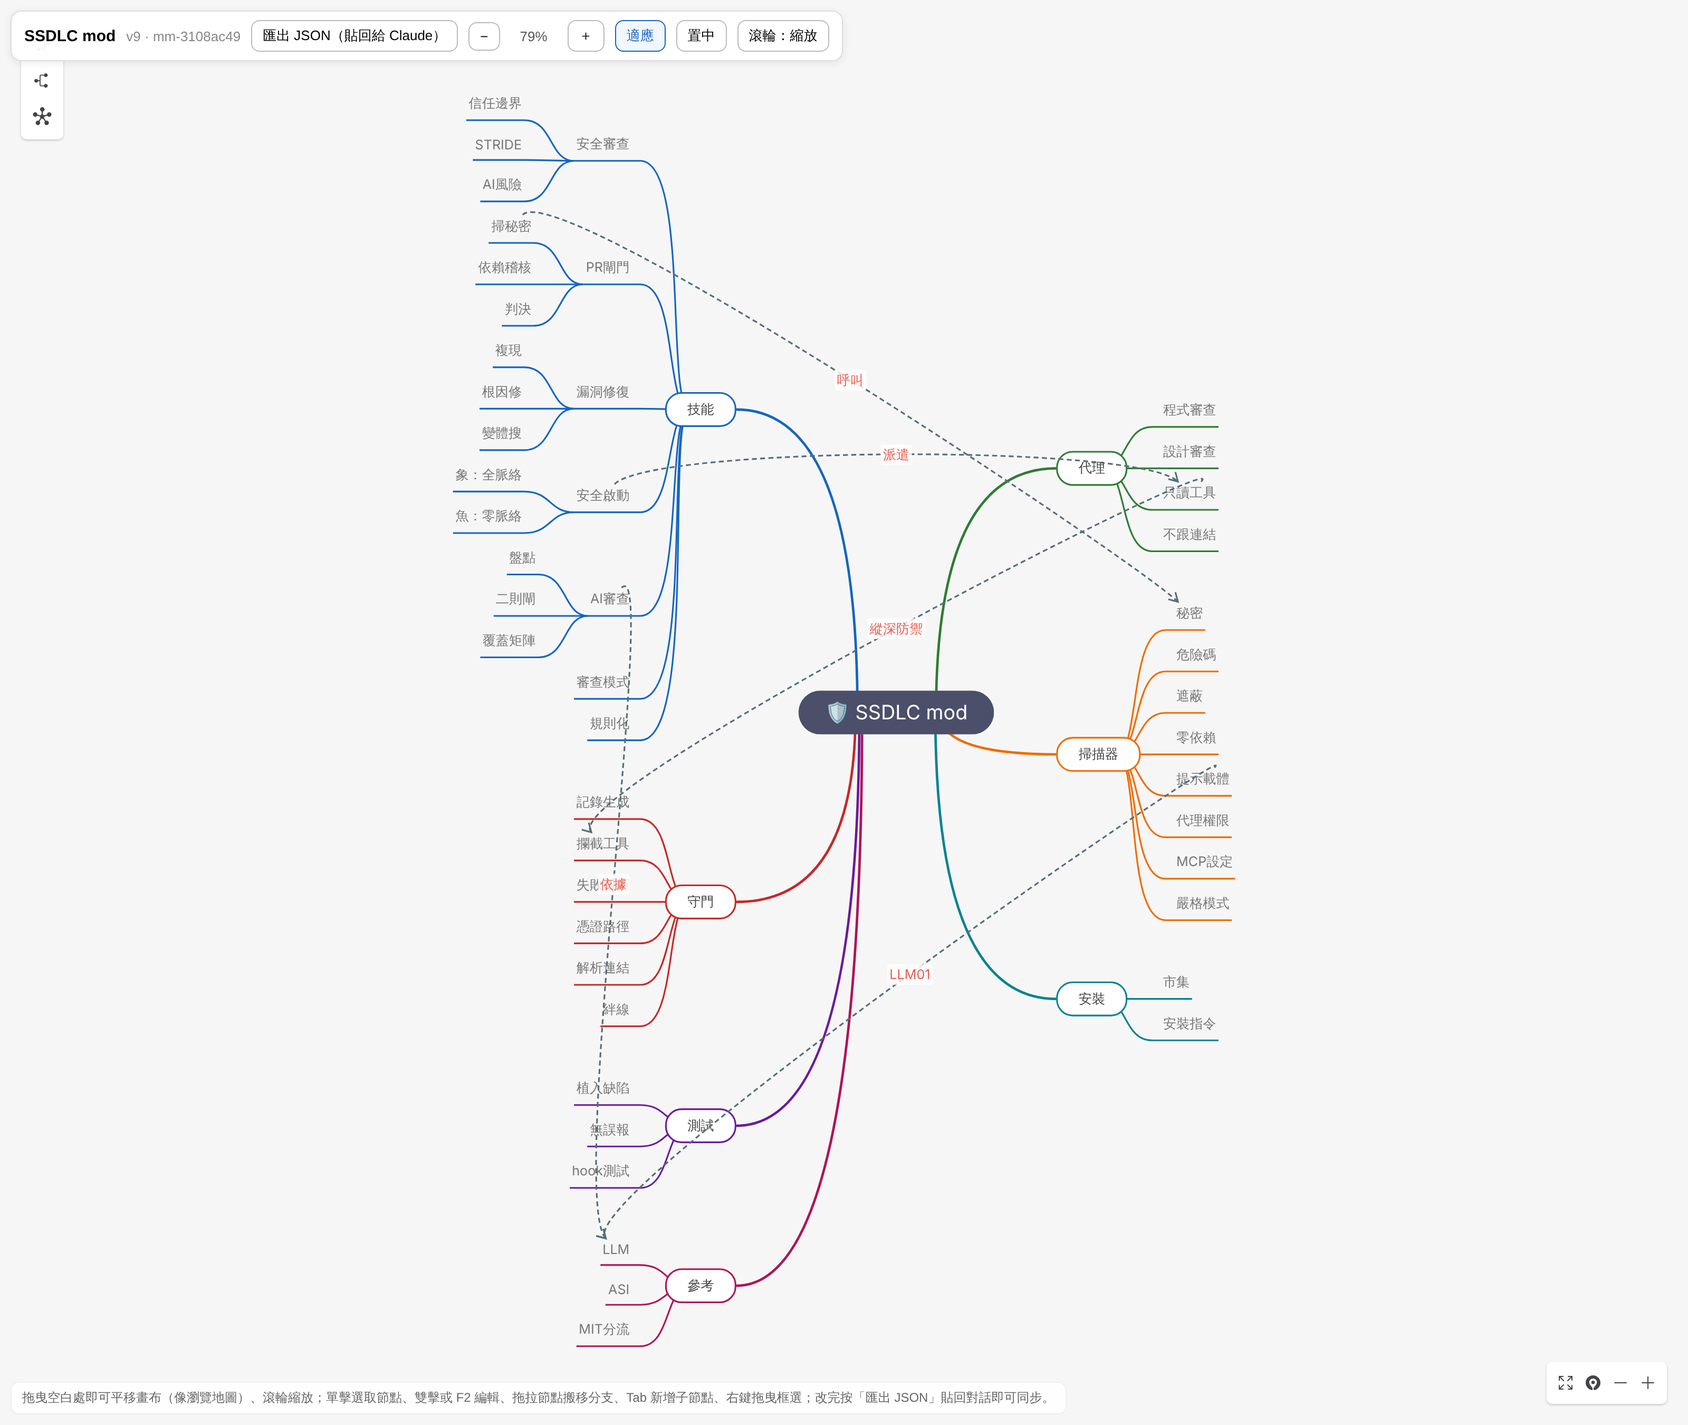
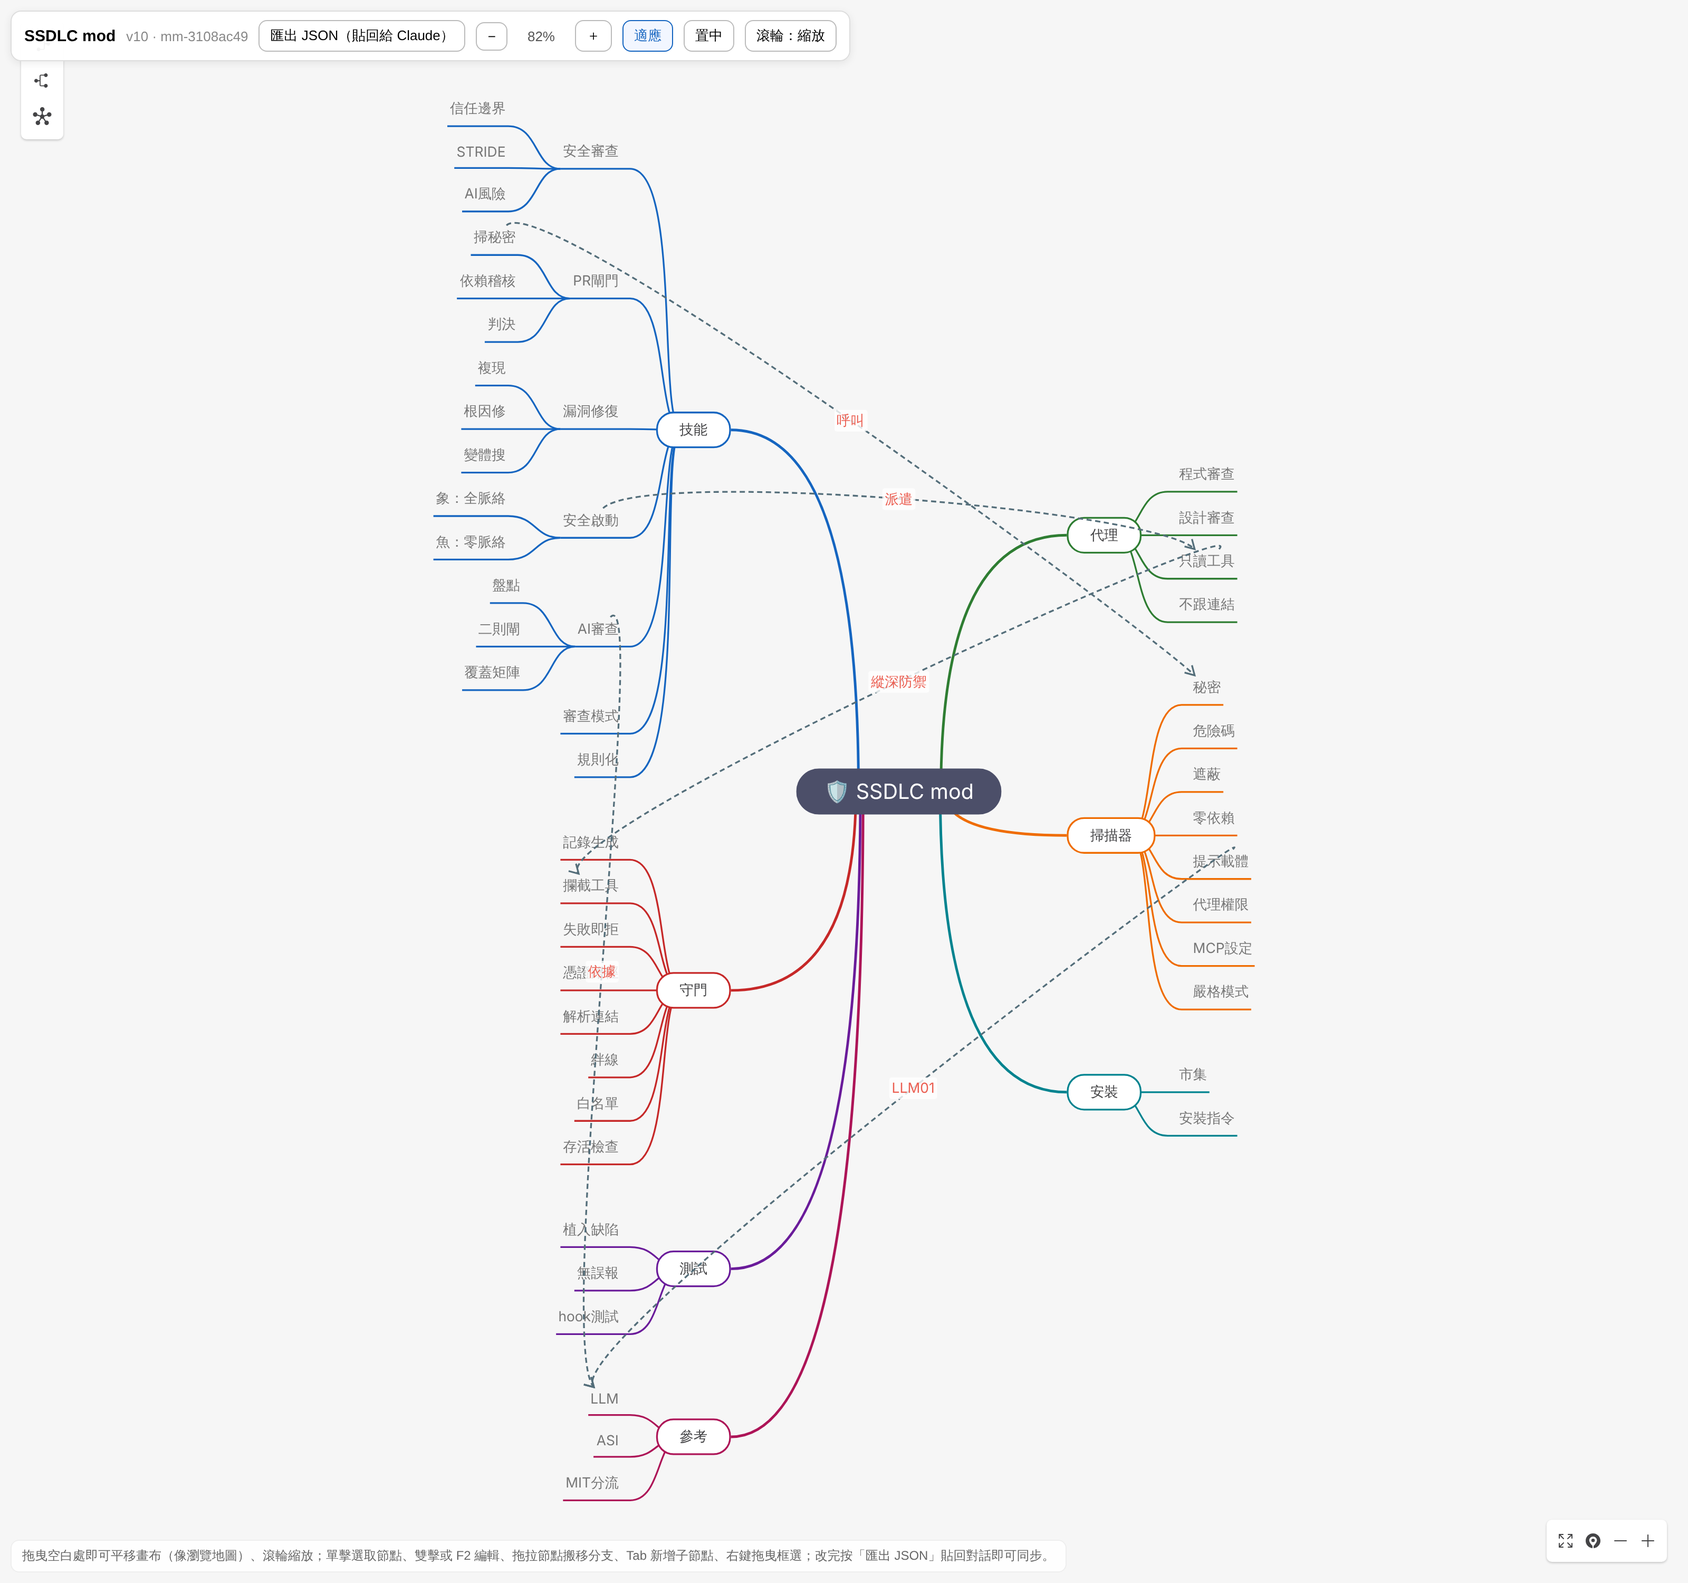
docs(readme): demo image and mind map for v0.5.0
The README demo was still v0.1 (23 tests, no AI rules, no guard). New image:
(1) scanner on general and AI/agent fixtures, JSON shown as a table with OWASP
2026 refs and the decoded hidden instruction; (2) live Claude app verification
of review mode, the reviewer allow-list and guard_log liveness; (3) 53 unit +
28 hook tests. Mind map gains the allow-list and liveness nodes (99/100).

Claude-Session: https://claude.ai/code/session_01R1ma2KKoemvTgjSD3ke2JF

diff --git a/docs/ssdlc-mindmap.html b/docs/ssdlc-mindmap.html
@@ -31,7 +31,7 @@
 </head>
 <body>
 <div id="topbar">
-  <b>SSDLC mod</b><span class="ver">v9 · mm-3108ac49</span>
+  <b>SSDLC mod</b><span class="ver">v10 · mm-3108ac49</span>
   <button onclick="exportFlat()">匯出 JSON（貼回給 Claude）</button>
   <button onclick="zoomStep(-1)" title="縮小">−</button><span id="zoompct" style="min-width:44px;text-align:center;color:#555;">100%</span><button onclick="zoomStep(1)" title="放大">＋</button>
   <button onclick="mind.scaleFit()" title="整張圖縮放至可視範圍">適應</button>
@@ -61,9 +61,9 @@ var MindElixir=(function(I){"use strict";const ee={name:"Latte",type:"light",pal
 
 </script>
 <script>
-const DATA = {"nodeData": {"id": "root", "topic": "🛡 SSDLC mod", "root": true, "expanded": true, "style": {"fontSize": "24px"}, "children": [{"id": "s", "topic": "技能", "expanded": true, "branchColor": "#1565C0", "children": [{"id": "s1", "topic": "安全審查", "expanded": true, "note": "/ssdlc:security-review — 10 段檢查表", "children": [{"id": "s1a", "topic": "信任邊界", "expanded": true}, {"id": "s1b", "topic": "STRIDE", "expanded": true}, {"id": "s1c", "topic": "AI風險", "expanded": true}]}, {"id": "s2", "topic": "PR閘門", "expanded": true, "note": "/ssdlc:security-gate", "children": [{"id": "s2a", "topic": "掃秘密", "expanded": true}, {"id": "s2b", "topic": "依賴稽核", "expanded": true}, {"id": "s2c", "topic": "判決", "expanded": true, "note": "PASS / WARN / BLOCK"}]}, {"id": "s3", "topic": "漏洞修復", "expanded": true, "note": "/ssdlc:vuln-fix", "children": [{"id": "s3a", "topic": "複現", "expanded": true}, {"id": "s3b", "topic": "根因修", "expanded": true}, {"id": "s3c", "topic": "變體搜", "expanded": true}]}, {"id": "s4", "topic": "安全啟動", "expanded": true, "note": "/ssdlc:safe-bootstrap — EGM 唯讀版", "children": [{"id": "s4a", "topic": "象：全脈絡", "expanded": true}, {"id": "s4b", "topic": "魚：零脈絡", "expanded": true}]}, {"id": "s5", "topic": "AI審查", "expanded": true, "note": "/ssdlc:ai-security-review — LLM01–10:2026、ASI01–10、MIT 因果格、覆蓋矩陣", "children": [{"id": "s5a", "topic": "盤點", "expanded": true}, {"id": "s5b", "topic": "二則閘", "expanded": true, "note": "Rule of Two：不可信輸入 × 機敏資料 × 改變狀態"}, {"id": "s5c", "topic": "覆蓋矩陣", "expanded": true}]}, {"id": "s6", "topic": "審查模式", "expanded": true, "note": "/ssdlc-review-mode：主 session 只允許精確命令形式、無網路、寫檔限報告、只派 ssdlc 審查員；只有人能關閉"}, {"id": "s7", "topic": "規則化", "expanded": true, "note": "/ssdlc:rule-from-finding：確認的發現 → 規則＋植入缺陷＋安全對照＋測試（飛輪）"}]}, {"id": "a", "topic": "代理", "expanded": true, "branchColor": "#2E7D32", "children": [{"id": "a1", "topic": "程式審查", "expanded": true, "note": "ssdlc:security-reviewer"}, {"id": "a2", "topic": "設計審查", "expanded": true, "note": "ssdlc:design-reviewer"}, {"id": "a3", "topic": "只讀工具", "expanded": true, "note": "Read, Grep, Glob"}, {"id": "a4", "topic": "不跟連結", "expanded": true, "note": "repo 外連結只列出不開啟"}]}, {"id": "h", "topic": "守門", "expanded": true, "branchColor": "#C62828", "children": [{"id": "h1", "topic": "記錄生成", "expanded": true, "note": "agent.spawn：記下 ssdlc:*reviewer 的 agentId"}, {"id": "h2", "topic": "攔截工具", "expanded": true, "note": "tool.call：非 Read/Grep/Glob 一律 deny"}, {"id": "h3", "topic": "失敗即拒", "expanded": true, "note": ".catch → fail closed"}, {"id": "h4", "topic": "憑證路徑", "expanded": true, "note": "~/.ssh、~/.aws、.env*、金鑰檔；含 glob（ASI03、LLM02:2026）"}, {"id": "h5", "topic": "解析連結", "expanded": true, "note": "$.fs.stat realPath，擋 repo 內指向憑證的 symlink"}, {"id": "h6", "topic": "絆線", "expanded": true, "note": "讀憑證或用禁用工具＝tripwire → 主 session 下一個工具結果附警報 → 判 BLOCK；guard_log 可查"}]}, {"id": "g", "topic": "掃描器", "expanded": true, "branchColor": "#EF6C00", "children": [{"id": "g1", "topic": "秘密", "expanded": true, "note": "AWS/GitHub/Anthropic/Slack/私鑰/硬編碼"}, {"id": "g2", "topic": "危險碼", "expanded": true, "note": "shell/eval/pickle/SQL/TLS/MD5"}, {"id": "g3", "topic": "遮蔽", "expanded": true, "note": "只顯示前 4 字元"}, {"id": "g4", "topic": "零依賴", "expanded": true, "note": "標準庫、不連網"}, {"id": "g5", "topic": "提示載體", "expanded": true, "note": "Unicode tag 隱寫（解碼）、零寬／bidi（LLM01:2026）"}, {"id": "g6", "topic": "代理權限", "expanded": true, "note": "bypassPermissions、autoApprove、萬用清單、REPL 工具（LLM03:2026、ASI02/05）"}, {"id": "g7", "topic": "MCP設定", "expanded": true, "note": "未鎖版本、內嵌密鑰、明文傳輸（ASI04/07）"}, {"id": "g8", "topic": "嚴格模式", "expanded": true, "note": "--strict 忽略 allow 標記；suppressed/skipped 皆列報"}]}, {"id": "t", "topic": "測試", "expanded": true, "branchColor": "#6A1B9A", "children": [{"id": "t1", "topic": "植入缺陷", "expanded": true, "note": "40 個單元測試：每條規則皆有植入缺陷與安全對照"}, {"id": "t2", "topic": "無誤報", "expanded": true}, {"id": "t3", "topic": "hook測試", "expanded": true, "note": "9 個 guard hook 測試"}]}, {"id": "i", "topic": "安裝", "expanded": true, "branchColor": "#00838F", "children": [{"id": "i1", "topic": "市集", "expanded": true, "note": "joescoffee/ssdlc-mod"}, {"id": "i2", "topic": "安裝指令", "expanded": true, "note": "/plugin install ssdlc --marketplace joescoffee/ssdlc-mod"}]}, {"id": "r", "topic": "參考", "expanded": true, "branchColor": "#AD1457", "children": [{"id": "r1", "topic": "LLM", "expanded": true, "note": "OWASP Top 10 for LLM Applications 2026（CC BY-SA 4.0）"}, {"id": "r2", "topic": "ASI", "expanded": true, "note": "OWASP Top 10 for Agentic Applications 2026（CC BY-SA 4.0）"}, {"id": "r3", "topic": "MIT分流", "expanded": true, "note": "AI Risk Repository V4：24 子域 A/B/C、因果情境格（CC BY 4.0）"}]}]}, "arrows": [{"id": "arrow0", "label": "派遣", "from": "s4", "to": "a3", "delta1": {"x": 60, "y": -60}, "delta2": {"x": -60, "y": -60}, "style": {"stroke": "#546E7A", "strokeDasharray": "6 4", "strokeWidth": 2}}, {"id": "arrow1", "label": "縱深防禦", "from": "a3", "to": "h2", "delta1": {"x": 60, "y": -60}, "delta2": {"x": -60, "y": -60}, "style": {"stroke": "#546E7A", "strokeDasharray": "6 4", "strokeWidth": 2}}, {"id": "arrow2", "label": "呼叫", "from": "s2a", "to": "g1", "delta1": {"x": 60, "y": -60}, "delta2": {"x": -60, "y": -60}, "style": {"stroke": "#546E7A", "strokeDasharray": "6 4", "strokeWidth": 2}}, {"id": "arrow3", "label": "依據", "from": "s5", "to": "r1", "delta1": {"x": 60, "y": -60}, "delta2": {"x": -60, "y": -60}, "style": {"stroke": "#546E7A", "strokeDasharray": "6 4", "strokeWidth": 2}}, {"id": "arrow4", "label": "LLM01", "from": "g5", "to": "r1", "delta1": {"x": 60, "y": -60}, "delta2": {"x": -60, "y": -60}, "style": {"stroke": "#546E7A", "strokeDasharray": "6 4", "strokeWidth": 2}}], "direction": 2, "theme": {"name": "mindmap-skill", "type": "light", "palette": ["#1565C0", "#2E7D32", "#C62828", "#EF6C00", "#6A1B9A", "#00838F", "#AD1457"]}};
-const META = {"map_id": "mm-3108ac49", "title": "SSDLC mod", "central_image": "🛡", "mode": "bloom", "version": 9, "created": "2026-11-01T04:54:12+00:00", "id_seq": 0, "updated": "2026-11-01T06:12:50+00:00"};
-const HISTORY = [{"v": 1, "action": "new", "ids": ["root"], "at": "2026-11-01T04:54:12+00:00"}, {"v": 2, "action": "apply(40)", "ids": ["s", "s1", "s1a", "s1b", "s1c", "s2", "s2a", "s2b", "s2c", "s3", "s3a", "s3b", "s3c", "s4", "s4a", "s4b", "a", "a1", "a2", "a3", "a4", "h", "h1", "h2", "h3", "g", "g1", "g2", "g3", "g4", "t", "t1", "t2", "t3", "i", "i1", "i2", "s4->a3", "a3->h2", "s2a->g1"], "at": "2026-11-01T04:54:12+00:00"}, {"v": 3, "action": "update", "ids": ["i2"], "at": "2026-11-01T04:54:16+00:00"}, {"v": 4, "action": "apply(16)", "ids": ["s5", "s5a", "s5b", "s5c", "h4", "h5", "g5", "g6", "g7", "g8", "r", "r1", "r2", "r3", "s5->r1", "g5->r1"], "at": "2026-11-01T05:47:18+00:00"}, {"v": 5, "action": "update", "ids": ["t1"], "at": "2026-11-01T05:47:18+00:00"}, {"v": 6, "action": "update", "ids": ["t3"], "at": "2026-11-01T05:47:18+00:00"}, {"v": 7, "action": "update", "ids": ["r1"], "at": "2026-11-01T05:47:27+00:00"}, {"v": 8, "action": "update", "ids": ["r2"], "at": "2026-11-01T05:47:27+00:00"}, {"v": 9, "action": "apply(3)", "ids": ["s6", "s7", "h6"], "at": "2026-11-01T06:12:50+00:00"}];
+const DATA = {"nodeData": {"id": "root", "topic": "🛡 SSDLC mod", "root": true, "expanded": true, "style": {"fontSize": "24px"}, "children": [{"id": "s", "topic": "技能", "expanded": true, "branchColor": "#1565C0", "children": [{"id": "s1", "topic": "安全審查", "expanded": true, "note": "/ssdlc:security-review — 10 段檢查表", "children": [{"id": "s1a", "topic": "信任邊界", "expanded": true}, {"id": "s1b", "topic": "STRIDE", "expanded": true}, {"id": "s1c", "topic": "AI風險", "expanded": true}]}, {"id": "s2", "topic": "PR閘門", "expanded": true, "note": "/ssdlc:security-gate", "children": [{"id": "s2a", "topic": "掃秘密", "expanded": true}, {"id": "s2b", "topic": "依賴稽核", "expanded": true}, {"id": "s2c", "topic": "判決", "expanded": true, "note": "PASS / WARN / BLOCK"}]}, {"id": "s3", "topic": "漏洞修復", "expanded": true, "note": "/ssdlc:vuln-fix", "children": [{"id": "s3a", "topic": "複現", "expanded": true}, {"id": "s3b", "topic": "根因修", "expanded": true}, {"id": "s3c", "topic": "變體搜", "expanded": true}]}, {"id": "s4", "topic": "安全啟動", "expanded": true, "note": "/ssdlc:safe-bootstrap — EGM 唯讀版", "children": [{"id": "s4a", "topic": "象：全脈絡", "expanded": true}, {"id": "s4b", "topic": "魚：零脈絡", "expanded": true}]}, {"id": "s5", "topic": "AI審查", "expanded": true, "note": "/ssdlc:ai-security-review — LLM01–10:2026、ASI01–10、MIT 因果格、覆蓋矩陣", "children": [{"id": "s5a", "topic": "盤點", "expanded": true}, {"id": "s5b", "topic": "二則閘", "expanded": true, "note": "Rule of Two：不可信輸入 × 機敏資料 × 改變狀態"}, {"id": "s5c", "topic": "覆蓋矩陣", "expanded": true}]}, {"id": "s6", "topic": "審查模式", "expanded": true, "note": "/ssdlc-review-mode：主 session 只允許精確命令形式、無網路、寫檔限報告、只派 ssdlc 審查員；只有人能關閉"}, {"id": "s7", "topic": "規則化", "expanded": true, "note": "/ssdlc:rule-from-finding：確認的發現 → 規則＋植入缺陷＋安全對照＋測試（飛輪）"}]}, {"id": "a", "topic": "代理", "expanded": true, "branchColor": "#2E7D32", "children": [{"id": "a1", "topic": "程式審查", "expanded": true, "note": "ssdlc:security-reviewer"}, {"id": "a2", "topic": "設計審查", "expanded": true, "note": "ssdlc:design-reviewer"}, {"id": "a3", "topic": "只讀工具", "expanded": true, "note": "Read, Grep, Glob"}, {"id": "a4", "topic": "不跟連結", "expanded": true, "note": "repo 外連結只列出不開啟"}]}, {"id": "h", "topic": "守門", "expanded": true, "branchColor": "#C62828", "children": [{"id": "h1", "topic": "記錄生成", "expanded": true, "note": "agent.spawn：記下 ssdlc:*reviewer 的 agentId"}, {"id": "h2", "topic": "攔截工具", "expanded": true, "note": "tool.call：非 Read/Grep/Glob 一律 deny"}, {"id": "h3", "topic": "失敗即拒", "expanded": true, "note": ".catch → fail closed"}, {"id": "h4", "topic": "憑證路徑", "expanded": true, "note": "~/.ssh、~/.aws、.env*、金鑰檔；含 glob（ASI03、LLM02:2026）"}, {"id": "h5", "topic": "解析連結", "expanded": true, "note": "$.fs.stat realPath，擋 repo 內指向憑證的 symlink"}, {"id": "h6", "topic": "絆線", "expanded": true, "note": "讀憑證或用禁用工具＝tripwire → 主 session 下一個工具結果附警報 → 判 BLOCK；guard_log 可查"}, {"id": "h7", "topic": "白名單", "expanded": true, "note": "v0.4.0：審查員只能讀派遣 prompt 指名的路徑（無則工作目錄）＋ plugin 目錄"}, {"id": "h8", "topic": "存活檢查", "expanded": true, "note": "v0.5.0：guard_log 回報版本與規則自我檢查；技能派審查員前先確認，失敗即 INCOMPLETE；跨 session 歷史"}]}, {"id": "g", "topic": "掃描器", "expanded": true, "branchColor": "#EF6C00", "children": [{"id": "g1", "topic": "秘密", "expanded": true, "note": "AWS/GitHub/Anthropic/Slack/私鑰/硬編碼"}, {"id": "g2", "topic": "危險碼", "expanded": true, "note": "shell/eval/pickle/SQL/TLS/MD5"}, {"id": "g3", "topic": "遮蔽", "expanded": true, "note": "只顯示前 4 字元"}, {"id": "g4", "topic": "零依賴", "expanded": true, "note": "標準庫、不連網"}, {"id": "g5", "topic": "提示載體", "expanded": true, "note": "Unicode tag 隱寫（解碼）、零寬／bidi（LLM01:2026）"}, {"id": "g6", "topic": "代理權限", "expanded": true, "note": "bypassPermissions、autoApprove、萬用清單、REPL 工具（LLM03:2026、ASI02/05）"}, {"id": "g7", "topic": "MCP設定", "expanded": true, "note": "未鎖版本、內嵌密鑰、明文傳輸（ASI04/07）"}, {"id": "g8", "topic": "嚴格模式", "expanded": true, "note": "--strict 忽略 allow 標記；suppressed/skipped 皆列報"}]}, {"id": "t", "topic": "測試", "expanded": true, "branchColor": "#6A1B9A", "children": [{"id": "t1", "topic": "植入缺陷", "expanded": true, "note": "40 個單元測試：每條規則皆有植入缺陷與安全對照"}, {"id": "t2", "topic": "無誤報", "expanded": true}, {"id": "t3", "topic": "hook測試", "expanded": true, "note": "9 個 guard hook 測試"}]}, {"id": "i", "topic": "安裝", "expanded": true, "branchColor": "#00838F", "children": [{"id": "i1", "topic": "市集", "expanded": true, "note": "joescoffee/ssdlc-mod"}, {"id": "i2", "topic": "安裝指令", "expanded": true, "note": "/plugin install ssdlc --marketplace joescoffee/ssdlc-mod"}]}, {"id": "r", "topic": "參考", "expanded": true, "branchColor": "#AD1457", "children": [{"id": "r1", "topic": "LLM", "expanded": true, "note": "OWASP Top 10 for LLM Applications 2026（CC BY-SA 4.0）"}, {"id": "r2", "topic": "ASI", "expanded": true, "note": "OWASP Top 10 for Agentic Applications 2026（CC BY-SA 4.0）"}, {"id": "r3", "topic": "MIT分流", "expanded": true, "note": "AI Risk Repository V4：24 子域 A/B/C、因果情境格（CC BY 4.0）"}]}]}, "arrows": [{"id": "arrow0", "label": "派遣", "from": "s4", "to": "a3", "delta1": {"x": 60, "y": -60}, "delta2": {"x": -60, "y": -60}, "style": {"stroke": "#546E7A", "strokeDasharray": "6 4", "strokeWidth": 2}}, {"id": "arrow1", "label": "縱深防禦", "from": "a3", "to": "h2", "delta1": {"x": 60, "y": -60}, "delta2": {"x": -60, "y": -60}, "style": {"stroke": "#546E7A", "strokeDasharray": "6 4", "strokeWidth": 2}}, {"id": "arrow2", "label": "呼叫", "from": "s2a", "to": "g1", "delta1": {"x": 60, "y": -60}, "delta2": {"x": -60, "y": -60}, "style": {"stroke": "#546E7A", "strokeDasharray": "6 4", "strokeWidth": 2}}, {"id": "arrow3", "label": "依據", "from": "s5", "to": "r1", "delta1": {"x": 60, "y": -60}, "delta2": {"x": -60, "y": -60}, "style": {"stroke": "#546E7A", "strokeDasharray": "6 4", "strokeWidth": 2}}, {"id": "arrow4", "label": "LLM01", "from": "g5", "to": "r1", "delta1": {"x": 60, "y": -60}, "delta2": {"x": -60, "y": -60}, "style": {"stroke": "#546E7A", "strokeDasharray": "6 4", "strokeWidth": 2}}], "direction": 2, "theme": {"name": "mindmap-skill", "type": "light", "palette": ["#1565C0", "#2E7D32", "#C62828", "#EF6C00", "#6A1B9A", "#00838F", "#AD1457"]}};
+const META = {"map_id": "mm-3108ac49", "title": "SSDLC mod", "central_image": "🛡", "mode": "bloom", "version": 10, "created": "2026-11-01T04:54:12+00:00", "id_seq": 0, "updated": "2026-11-01T09:21:57+00:00"};
+const HISTORY = [{"v": 1, "action": "new", "ids": ["root"], "at": "2026-11-01T04:54:12+00:00"}, {"v": 2, "action": "apply(40)", "ids": ["s", "s1", "s1a", "s1b", "s1c", "s2", "s2a", "s2b", "s2c", "s3", "s3a", "s3b", "s3c", "s4", "s4a", "s4b", "a", "a1", "a2", "a3", "a4", "h", "h1", "h2", "h3", "g", "g1", "g2", "g3", "g4", "t", "t1", "t2", "t3", "i", "i1", "i2", "s4->a3", "a3->h2", "s2a->g1"], "at": "2026-11-01T04:54:12+00:00"}, {"v": 3, "action": "update", "ids": ["i2"], "at": "2026-11-01T04:54:16+00:00"}, {"v": 4, "action": "apply(16)", "ids": ["s5", "s5a", "s5b", "s5c", "h4", "h5", "g5", "g6", "g7", "g8", "r", "r1", "r2", "r3", "s5->r1", "g5->r1"], "at": "2026-11-01T05:47:18+00:00"}, {"v": 5, "action": "update", "ids": ["t1"], "at": "2026-11-01T05:47:18+00:00"}, {"v": 6, "action": "update", "ids": ["t3"], "at": "2026-11-01T05:47:18+00:00"}, {"v": 7, "action": "update", "ids": ["r1"], "at": "2026-11-01T05:47:27+00:00"}, {"v": 8, "action": "update", "ids": ["r2"], "at": "2026-11-01T05:47:27+00:00"}, {"v": 9, "action": "apply(3)", "ids": ["s6", "s7", "h6"], "at": "2026-11-01T06:12:50+00:00"}, {"v": 10, "action": "apply(2)", "ids": ["h7", "h8"], "at": "2026-11-01T09:21:57+00:00"}];
 const SOURCE_MAP = {};
 
 // 地圖式導覽：滾輪預設縮放（以游標為錨點），可切換為平移（觸控板雙指捲動慣用）

diff --git a/README.md b/README.md
@@ -15,7 +15,9 @@ claude plugin install ssdlc --marketplace joescoffee/ssdlc-mod
 📘 **新手請從 [新手操作手冊](docs/manual/README.md) 開始**：安裝、五分鐘上手、六個技能逐步教學、審查不受信任 repo 的完整流程、掃描器 CLI 與 CI、疑難排解。
 
 ## 示範 / Demo
-![ssdlc 實機示範](docs/demo.png)
+![ssdlc 實機示範（v0.5.0）](docs/demo.png)
+
+①～③ 皆為實際輸出：掃描器以 `--json` 執行後整理成表格；② 取自 Claude app 中的實機驗證（2026-11-01）。
 
 ## 實戰案例：審查 EGM 本身 / Case study
 用 `/ssdlc:safe-bootstrap` 審查上游 [google/elephant-goldfish-model](https://github.com/google/elephant-goldfish-model) @ `403d888`：Elephant（設計威脅建模）與 Goldfish（零背景程式碼審查）平行執行，再合併、交叉驗證。
